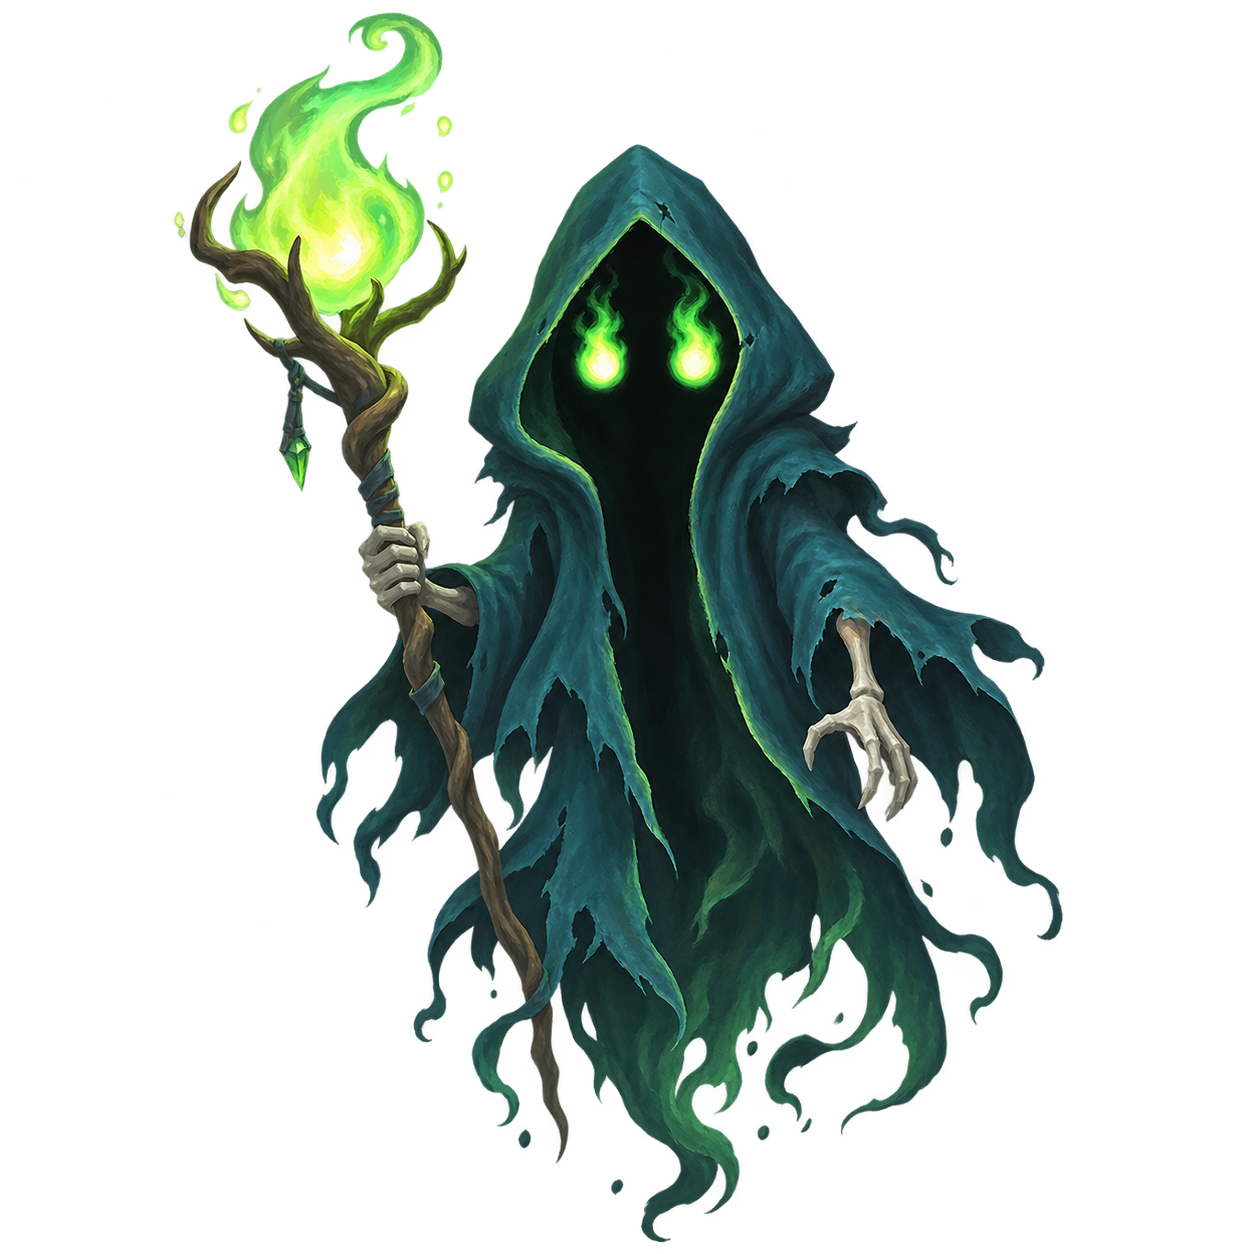
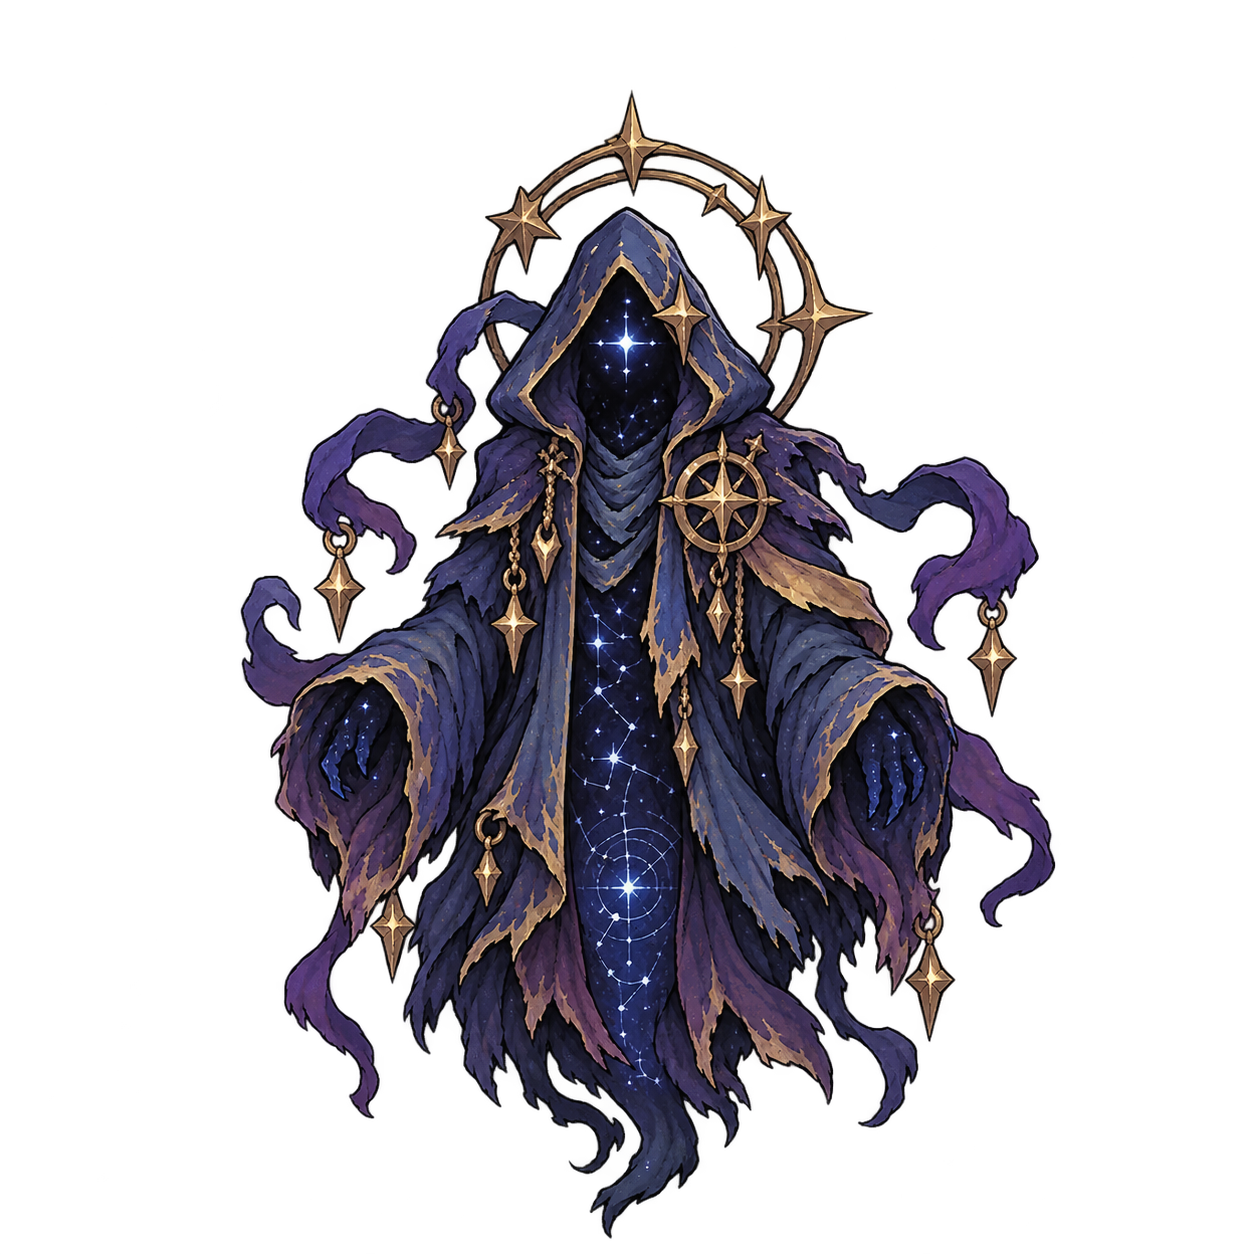
빈 옷의 예언자 디자인 교체 (별자리 예언자 컨셉)
- images/monsters/hollowprophet.png: 사용자가 생성한 새 디자인으로 교체
  (별자리가 안에서 빛나는 후드 로브, 기존 슬더스풍 디자인 탈피)
- data/monsters.js: dex 플레이버 텍스트를 새 컨셉(안에 못다 읽은 별자리가
  빛난다)에 맞게 수정

diff --git a/js/data/monsters.js b/js/data/monsters.js
@@ -94,7 +94,7 @@ export(전역): MONSTERS, TIER_MONSTER_POOLS, BOSSES, LOCATIONS
     {type:'watchertablet',  name:'감시자의 석판',     minDepth:6,  hp:90,  atk:16, def:6,  spd:7,  exp:80,  gold:[60,90],   skills:['carvedBrand','unblinkingGaze'],
       dex:'낡은 석판에 새겨진 눈이, 깜빡임도 없이 지나는 모든 것을 지켜본다.'},
     {type:'hollowprophet',  name:'빈 옷의 예언자',    minDepth:8,  hp:130, atk:20, def:10, spd:9,  exp:140, gold:[100,150], skills:['lockedVoices','prophecyFlame'], weakness:'dot',
-      dex:'속은 텅 비었으나, 옷자락만은 여전히 예언하듯 흔들린다.'},
+      dex:'속은 텅 비었으나, 그 안에는 여전히 다 읽지 못한 별자리가 빛나고 있다.'},
     {type:'hornedwarden',   name:'뿔 두른 파수인',    minDepth:12, hp:145, atk:21, def:9,  spd:12, exp:150, gold:[105,145], skills:['judgmentKey','whisperingHorn'],
       dex:'뿔 달린 투구 아래, 누구의 얼굴이었는지는 이미 잊혔다.'},
     {type:'threadmannequin',name:'붉은 실의 재봉인형', minDepth:14, hp:150, atk:24, def:10, spd:5,  exp:160, gold:[110,150], skills:['threadWinds','scissorGreeting'],
